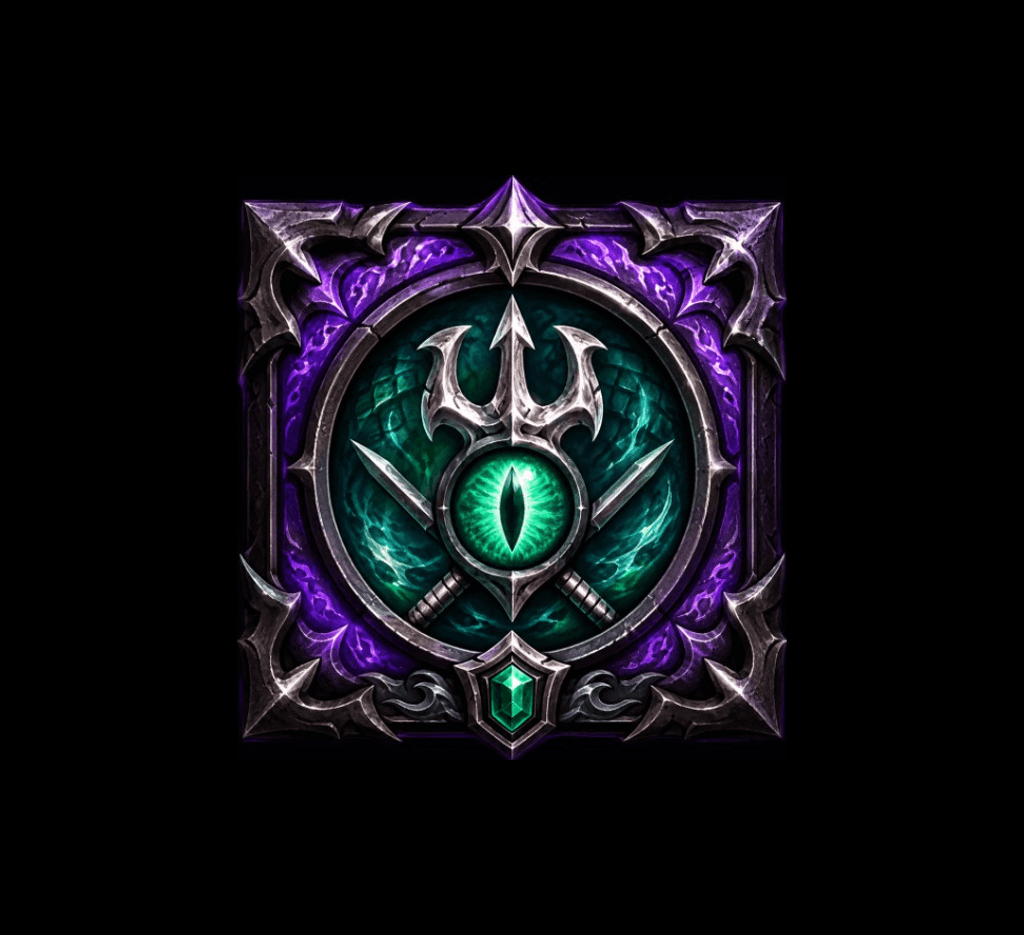
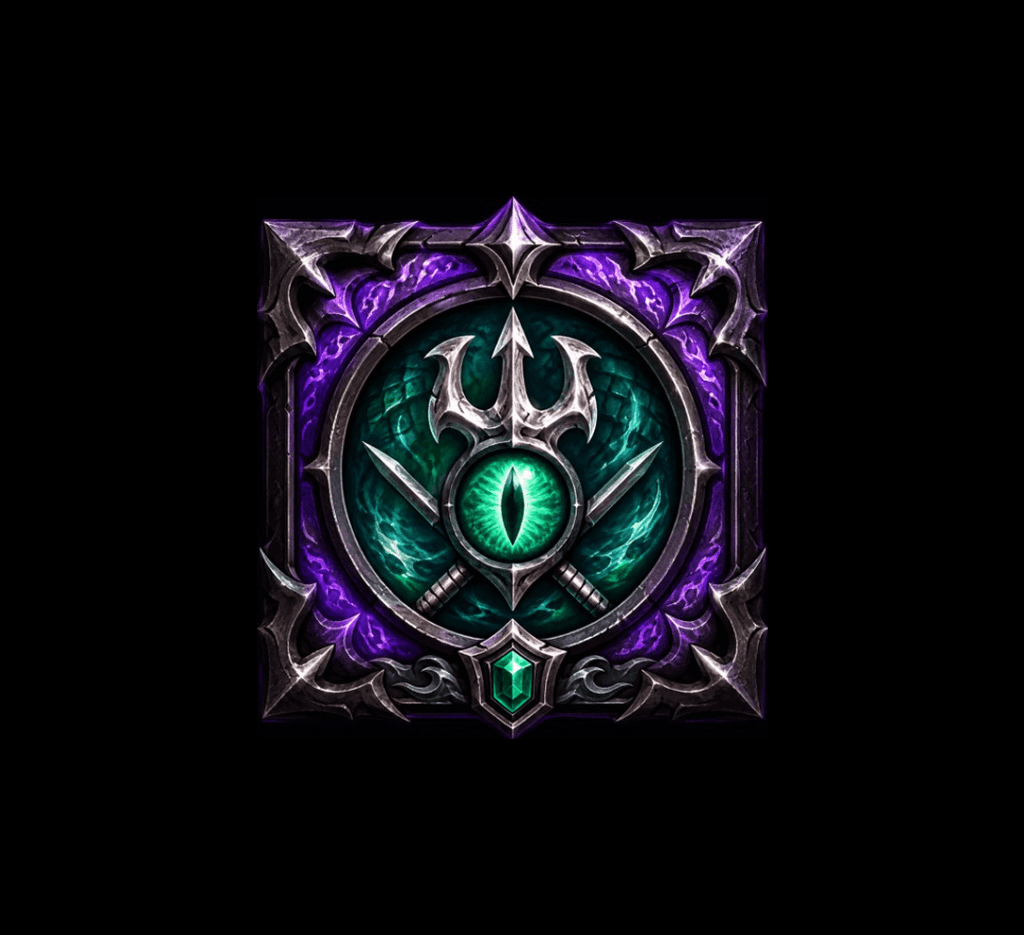
Fix SSC and Magtheridon badge framing on leaderboard

Changed region(s): [[0.2188, 0.1861, 0.7812, 0.8064]]

diff --git a/public/index.html b/public/index.html
@@ -12,7 +12,7 @@
       href="https://fonts.googleapis.com/css2?family=Bebas+Neue&family=Nunito:wght@300;400;600;700;800;900&display=swap"
       rel="stylesheet"
     />
-    <link rel="stylesheet" href="/styles.min.css?v=20260607plb-badge-normalize-v4" />
+    <link rel="stylesheet" href="/styles.min.css?v=20260607plb-badge-frame-v5" />
     <link rel="stylesheet" href="/tailwind.css?v=20260506tw1" />
     <style>
       .leaderboard-controls {
@@ -168,7 +168,7 @@
 
     <script defer src="/session-api-cache.js?v=20260504a"></script>
     <script defer src="/gear-audit-display.js?v=20260519plb-gear-compact-v1"></script>
-    <script defer src="/events-roster-ui.js?v=20260607plb-badge-normalize-v4"></script>
+    <script defer src="/events-roster-ui.js?v=20260607plb-badge-frame-v5"></script>
     <script defer src="/wow-item-tooltip.js?v=20260428p"></script>
     <script defer src="/leaderboard.js?v=20260513resolution1"></script>
     <script defer src="/home.js?v=20260505black1"></script>

diff --git a/public/admin.html b/public/admin.html
@@ -683,7 +683,7 @@
     <script defer src="/vendor/apexcharts.min.js"></script>
     <script defer src="/wow-spell-tooltip.js?v=20260518wcl-debuff-tooltip-v2"></script>
     <script defer src="/wow-item-tooltip.js?v=20260502a"></script>
-    <script defer src="/events-roster-ui.js?v=20260607plb-badge-normalize-v4"></script>
+    <script defer src="/events-roster-ui.js?v=20260607plb-badge-frame-v5"></script>
     <script defer src="/admin.js?v=20260522plb-composer-dnd-fix-v1"></script>
     <script defer src="/auth-ui.js?v=20260518plb-nav-compact-v1"></script>
     <script defer src="/cookie-notice.js?v=20260507mobile1"></script>

diff --git a/public/events-roster-ui.js b/public/events-roster-ui.js
@@ -14,7 +14,7 @@ function initBackgroundStars() {
 }
 
 const DISCORD_INVITE_URL = "https://discord.gg/TBnt5f8DFc";
-const IMAGE_ASSET_VERSION = "20260607plb-badge-normalize-v4";
+const IMAGE_ASSET_VERSION = "20260607plb-badge-frame-v5";
 /** Same guild as Leaderboard (/) WCL widgets — attendance tiers on roster cards. */
 const EVENTS_WCL_GUILD_ID = 817080;
 /** Slugs under `/images/guild-roles/{slug}.png` — must match server `RH_WCL_GUILD_ROLES` via `.toLowerCase()`. */

diff --git a/public/profile.html b/public/profile.html
@@ -197,7 +197,7 @@
 
     <script defer src="/session-api-cache.js?v=20260504a"></script>
     <script defer src="/home.js?v=20260505black1"></script>
-    <script defer src="/events-roster-ui.js?v=20260607plb-badge-normalize-v4"></script>
+    <script defer src="/events-roster-ui.js?v=20260607plb-badge-frame-v5"></script>
     <script defer src="/profile.js?v=20260513master-crafters1"></script>
     <script defer src="/auth-ui.js?v=20260518plb-nav-compact-v1"></script>
     <script defer src="/cookie-notice.js?v=20260507mobile1"></script>

diff --git a/public/roster.html b/public/roster.html
@@ -73,7 +73,7 @@
 
     <script defer src="/session-api-cache.js?v=20260504a"></script>
     <script defer src="/gear-audit-display.js?v=20260519plb-gear-compact-v1"></script>
-    <script defer src="/events-roster-ui.js?v=20260607plb-badge-normalize-v4"></script>
+    <script defer src="/events-roster-ui.js?v=20260607plb-badge-frame-v5"></script>
     <script defer src="/roster.js?v=20260519plb-roster-gear-v1"></script>
     <script defer src="/auth-ui.js?v=20260518plb-nav-compact-v1"></script>
     <script defer src="/cookie-notice.js?v=20260507mobile1"></script>

diff --git a/public/styles.css b/public/styles.css
@@ -8448,7 +8448,7 @@ tr.plb-gear-row--miss th {
 }
 
 .leaderboard-player-badges .raider-badge-slot--achievement-earned .raider-badge-achievement-img {
-  --achievement-badge-zoom: 1.8;
+  --achievement-badge-zoom: 1.72;
 }
 
 .leaderboard-player-badges .raider-badge-slot--achievement-earned {

diff --git a/public/voting.html b/public/voting.html
@@ -378,7 +378,7 @@
 
     <script defer src="/session-api-cache.js?v=20260504a"></script>
     <script defer src="/home.js?v=20260505black1"></script>
-    <script defer src="/events-roster-ui.js?v=20260607plb-badge-normalize-v4"></script>
+    <script defer src="/events-roster-ui.js?v=20260607plb-badge-frame-v5"></script>
     <script defer src="/voting.js?v=20260518hof-recent-archive-v1"></script>
     <script defer src="/auth-ui.js?v=20260518plb-nav-compact-v1"></script>
     <script defer src="/cookie-notice.js?v=20260507mobile1"></script>

diff --git a/server.js b/server.js
@@ -423,7 +423,7 @@ const DEFAULT_TBC_ZONES = [
   "Zul'Aman",
 ];
 /** Bumped each release; exposed on `/api/health` so production deploys are easy to verify. */
-const API_BUILD_ID = "20260607-plb-badge-normalize-v4";
+const API_BUILD_ID = "20260607-plb-badge-frame-v5";
 
 const TRACKED_RAIDS = {
   Karazhan: [